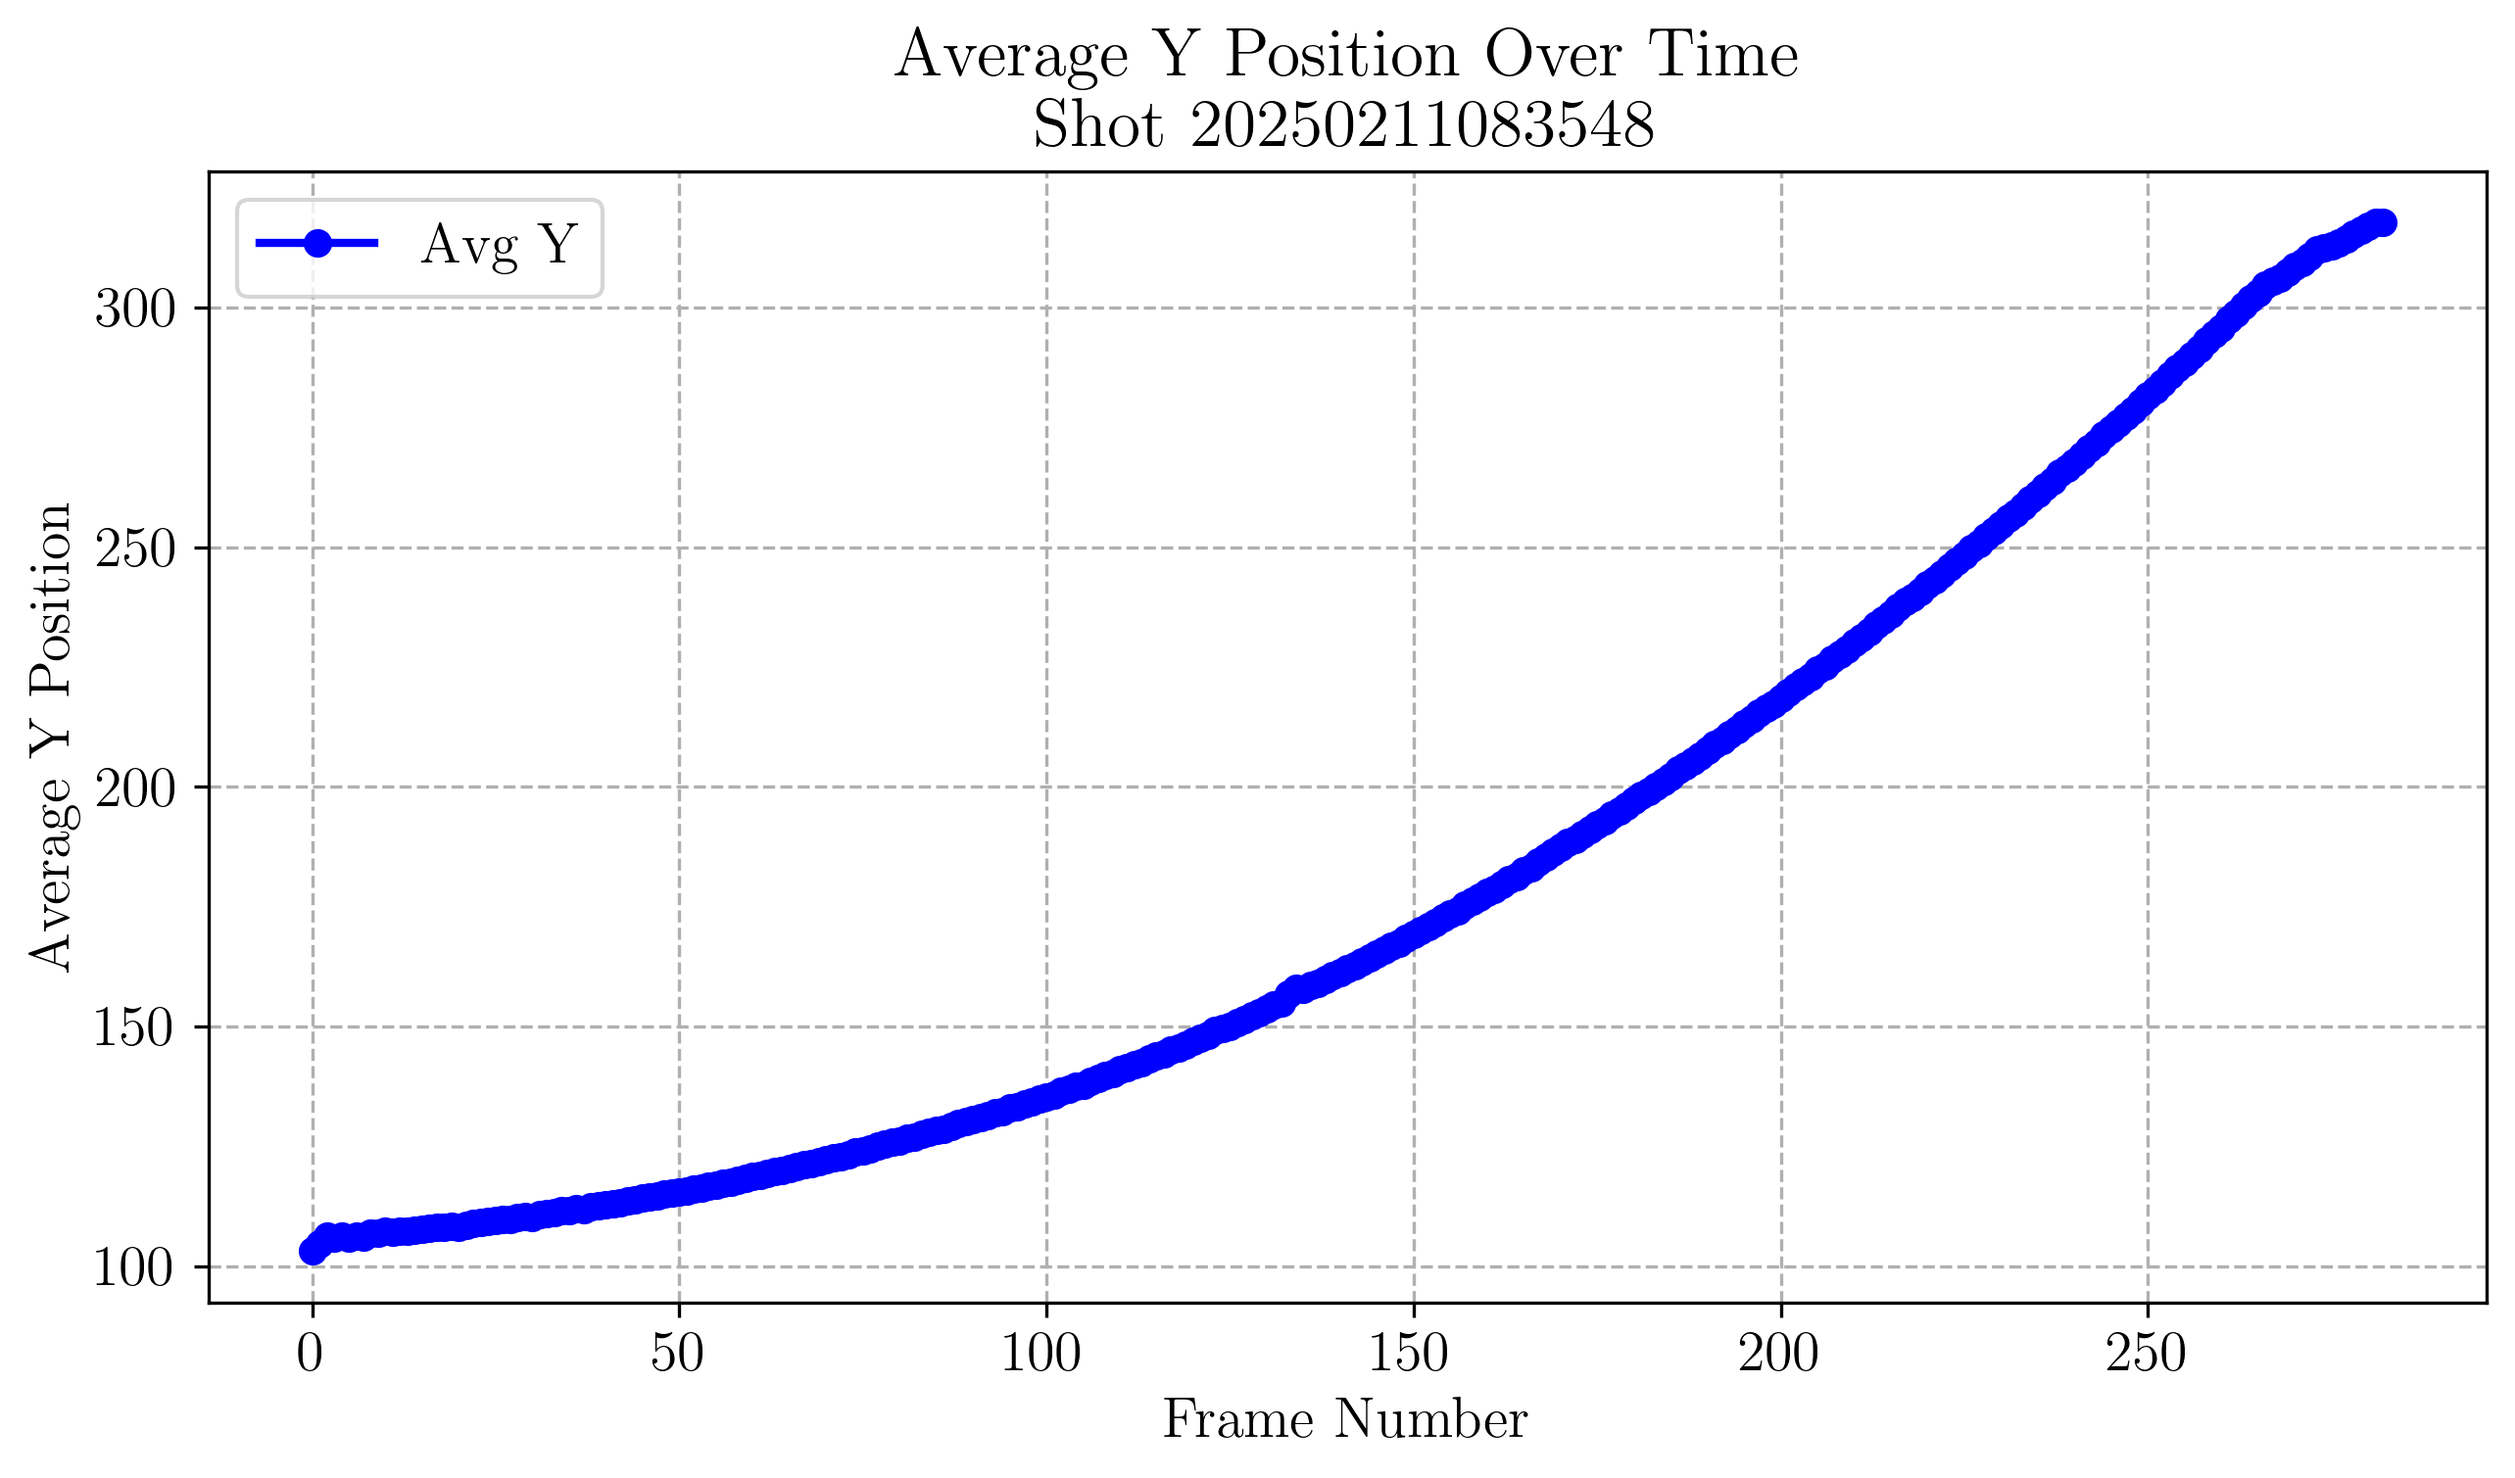
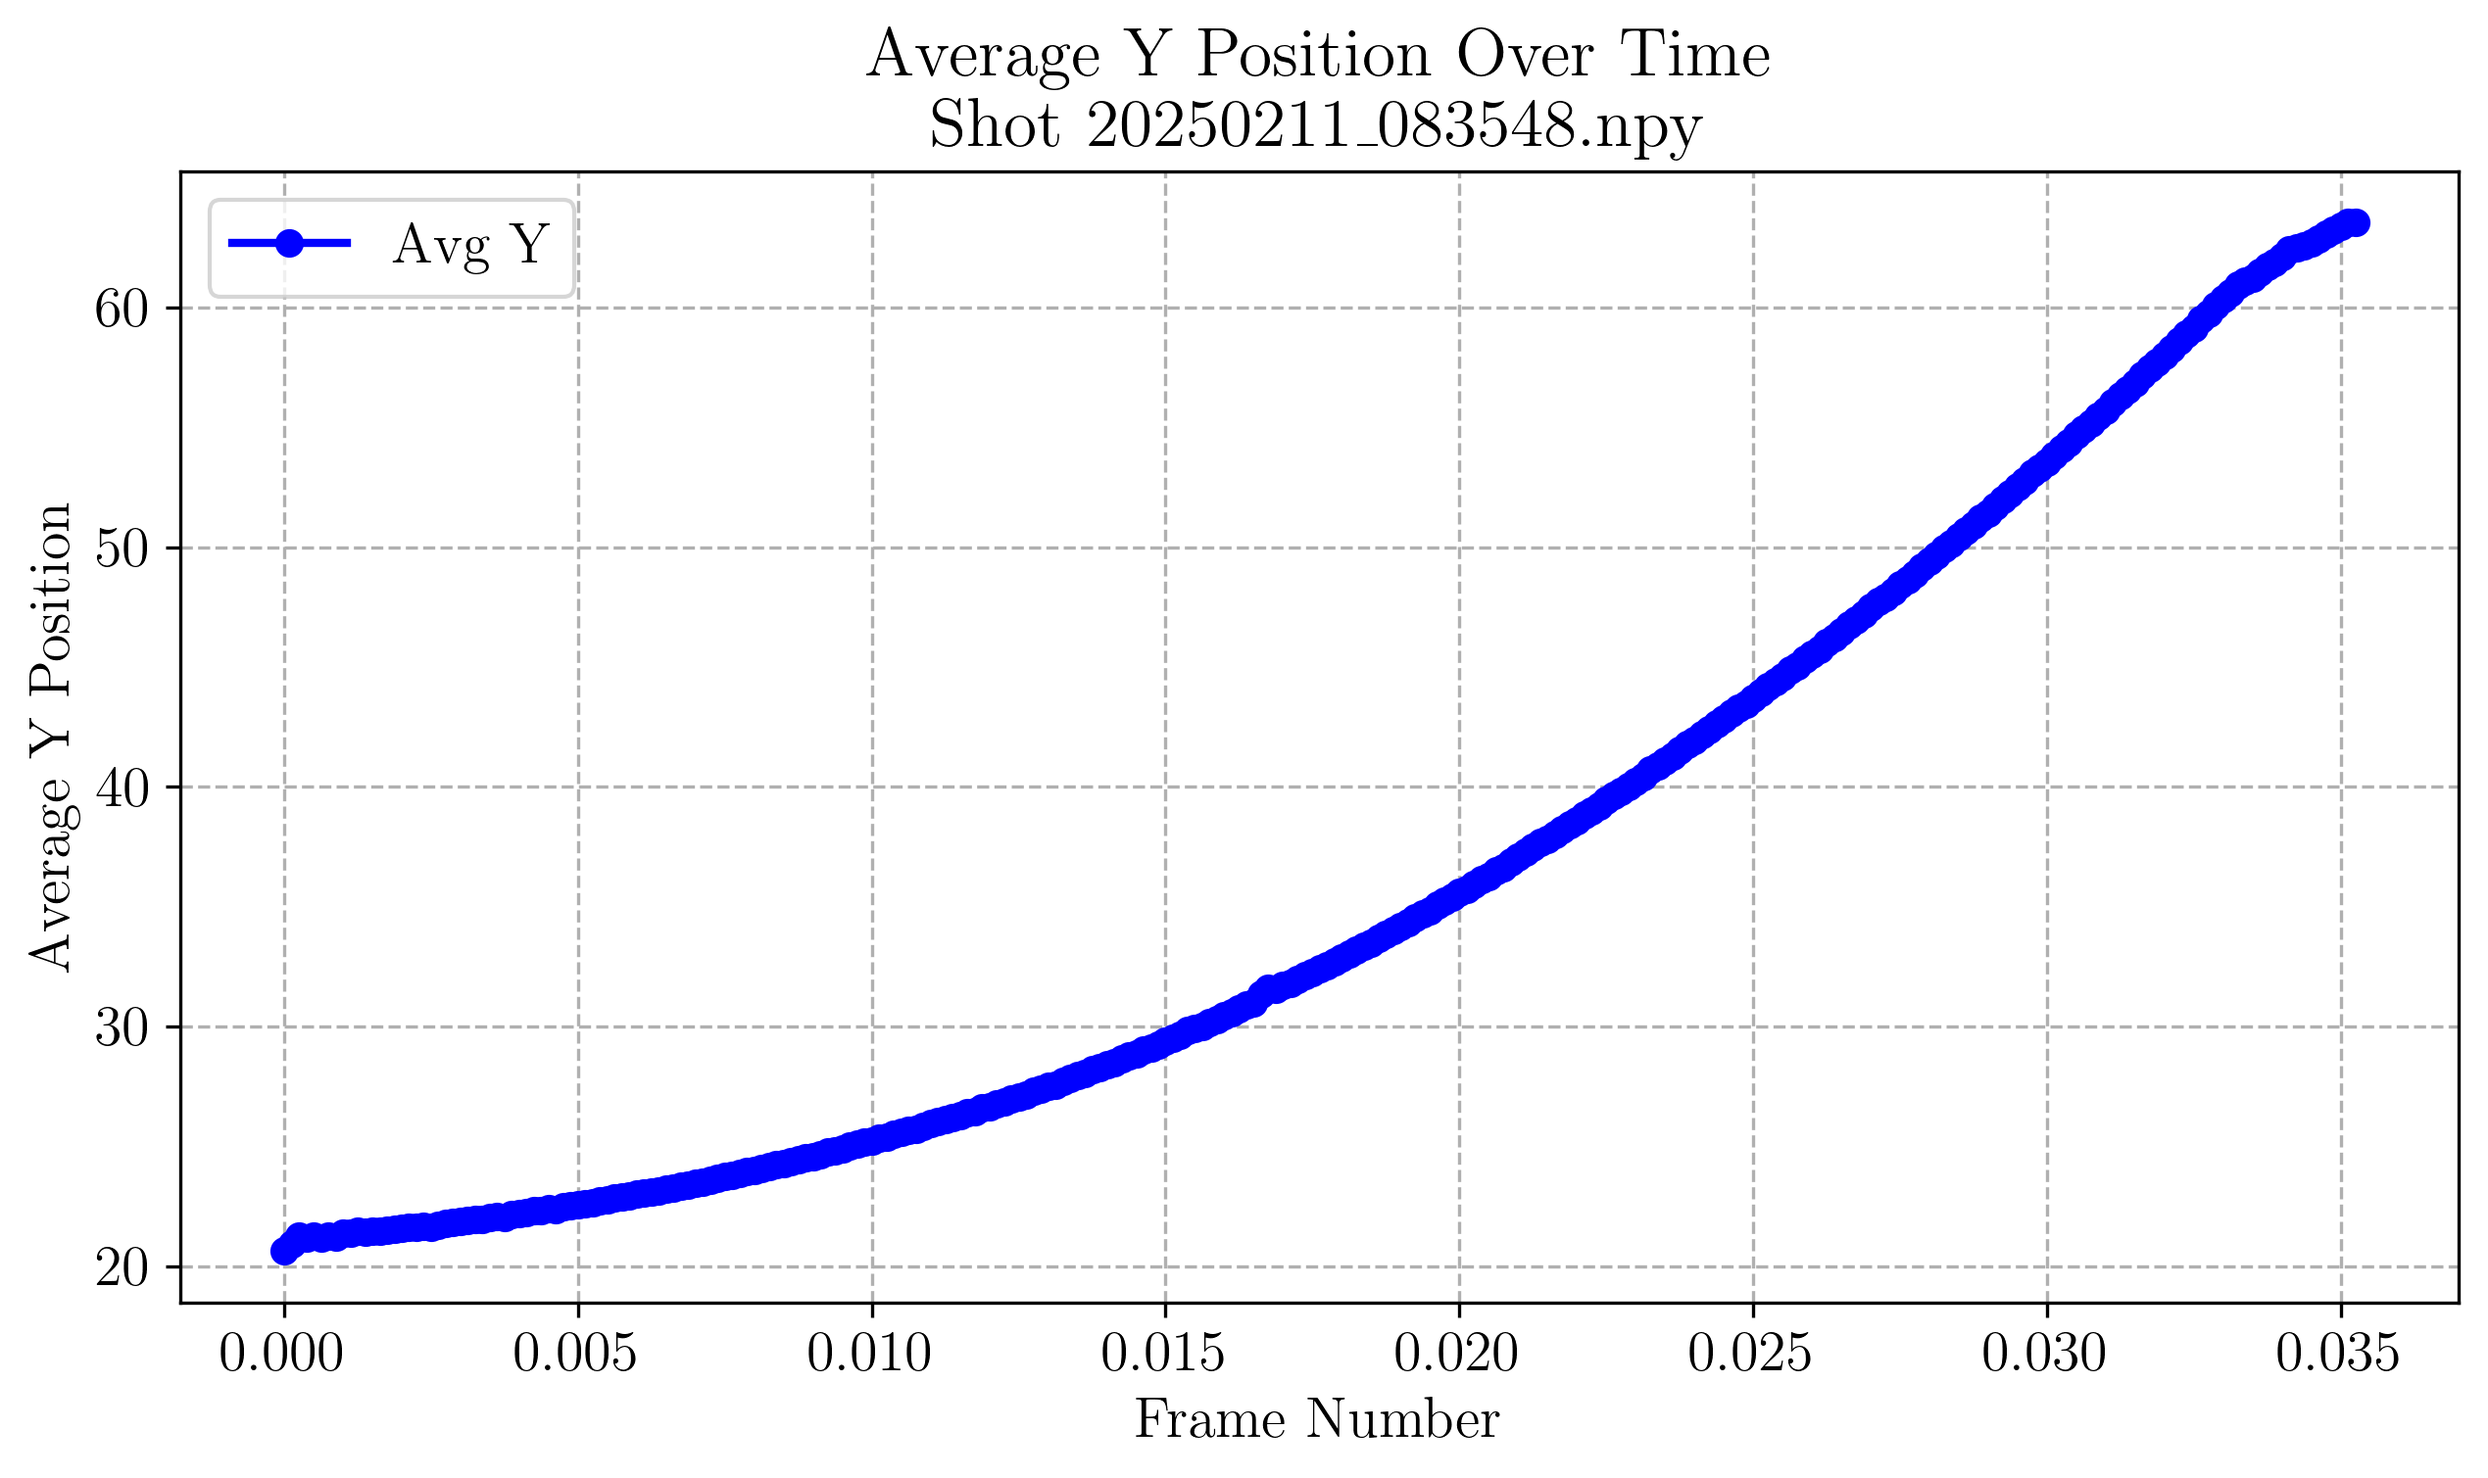
Incorporating obstacle and surface tracking analysis

diff --git a/tracking_surface.py b/tracking_surface.py
@@ -1,50 +1,70 @@
 import os
-
-# import cv2
-# import matplotlib.pyplot as plt
 import numpy as np
-
 from edge_detection import detect_edges
 
-frame_folder = r"C:\Users\niloy\Desktop\Shots 02112025\20250211_083548"
 
-GAUSSIAN_BLUR_KERNEL = (5, 5)  # Kernel size for Gaussian blur
-CANNY_THRESHOLD1 = 10  # Lower threshold for Canny edge detection
-CANNY_THRESHOLD2 = 150  # Upper threshold for Canny edge detection
-GAMMA = 0.1  # Gamma correction factor (1.0 = no change)
-SPLINE_SMOOTHING = 1500  # Spline smoothing factor (higher = smoother, fewer details)
-INTERP_RESOLUTION = 200  # Number of interpolation points for spline
-LEVELS_ALPHA = 10  # Contrast scaling factor
-LEVELS_BETA = 2  # Brightness adjustment
+def process_frames(
+    frame_folder,
+    gaussian_blur_kernel=(5, 5),
+    canny_threshold1=10,
+    canny_threshold2=150,
+    gamma=0.1,
+    spline_smoothing=1500,
+    interp_resolution=200,
+    levels_alpha=10,
+    levels_beta=2,
+    save_edges=False,
+    save_path="edges.npy",
+):
+    """
+    Processes a sequence of frames for edge detection.
 
+    Parameters:
+        frame_folder (str): Path to the folder containing BMP frames.
+        gaussian_blur_kernel (tuple): Kernel size for Gaussian blur.
+        canny_threshold1 (int): Lower threshold for Canny edge detection.
+        canny_threshold2 (int): Upper threshold for Canny edge detection.
+        gamma (float): Gamma correction factor.
+        spline_smoothing (int): Spline smoothing factor.
+        interp_resolution (int): Number of interpolation points for spline.
+        levels_alpha (int): Contrast scaling factor.
+        levels_beta (int): Brightness adjustment.
+        save_edges (bool): Whether to save the edges array as a .npy file.
+        save_path (str): Path to save the .npy file if save_edges is True.
 
-# Get list of all .bmp files in the folder
-frames = [f for f in os.listdir(frame_folder) if f.lower().endswith(".bmp")]
+    Returns:
+        np.ndarray: The computed edges array.
+    """
+    frames = [f for f in os.listdir(frame_folder) if f.lower().endswith(".bmp")]
+    frames.sort()  # Ensure frames are processed in order
 
+    n = len(frames)
+    if n < 2:
+        raise ValueError("At least two frames are required for edge detection.")
 
-# Pre-allocate array for edge vs frames for speed
-n = len(frames)
-edges = np.full((2, INTERP_RESOLUTION, n - 1), np.nan)
+    edges = np.full((2, interp_resolution, n - 1), np.nan)
 
-# Print the list of .bmp files
-for i in range(n - 1):
-    FRAME1_PATH = os.path.join(frame_folder, frames[i])
-    FRAME2_PATH = os.path.join(frame_folder, frames[i + 1])
-    try:
-        edge = detect_edges(
-            FRAME1_PATH,
-            FRAME2_PATH,
-            GAMMA,
-            GAUSSIAN_BLUR_KERNEL,
-            LEVELS_ALPHA,
-            LEVELS_BETA,
-            CANNY_THRESHOLD1,
-            CANNY_THRESHOLD2,
-            SPLINE_SMOOTHING,
-            INTERP_RESOLUTION,
-        )
-        edges[:, :, i] = edge
-    except:
-        print(f"Frame {i} Didn't work")
+    for i in range(n - 1):
+        frame1_path = os.path.join(frame_folder, frames[i])
+        frame2_path = os.path.join(frame_folder, frames[i + 1])
+        try:
+            edge = detect_edges(
+                frame1_path,
+                frame2_path,
+                gamma,
+                gaussian_blur_kernel,
+                levels_alpha,
+                levels_beta,
+                canny_threshold1,
+                canny_threshold2,
+                spline_smoothing,
+                interp_resolution,
+            )
+            edges[:, :, i] = edge
+        except Exception as e:
+            print(f"Frame {i} processing failed: {e}")
 
-np.save("20250211_083548.npy", edges)
+    if save_edges:
+        np.save(save_path, edges)
+
+    return edges

diff --git a/surface_dynamics.py b/surface_dynamics.py
@@ -1,31 +1,39 @@
 import matplotlib.pyplot as plt
 import numpy as np
 
-# Load the saved array
-edges = np.load("20250211_083548.npy")  # Ensure the file is in the same directory
 
-# Extract y-values (edges[1] contains y-values)
-y_values = edges[1, :, :]  # Shape: (200, time_frames)
+def plot_surface_dynamics(
+    npy_file, save_plot=True, plot_filename="surface_dynamics.png", scaling=1, FPS=1
+):
+    """
+    Plots the surface dynamics from a saved numpy array.
 
-# Compute the average y-value at each time frame
-avg_y = np.mean(y_values, axis=0)  # Shape: (time_frames,)
+    Parameters:
+        npy_file (str): Path to the saved numpy file containing edge data.
+        save_plot (bool): Whether to save the plot as an image file.
+        plot_filename (str): Name of the file to save the plot.
+    """
+    edges = np.load(npy_file)  # Load the saved array
+    y_values = edges[1, :, :] * scaling  # Extract y-values
+    avg_y = np.mean(y_values, axis=0)  # Compute average y-value per frame
+    time = np.arange(avg_y.shape[0]) / FPS  # Generate frame numbers
 
-# Generate frame numbers as x-axis
-frame_numbers = np.arange(avg_y.shape[0])
+    # Plotting parameters
+    plt.rc("text", usetex=True)
+    plt.rc("font", family="serif", size=14)
+    plt.rc("lines", linewidth=2)
+    plt.rc("axes", grid=True)
+    plt.rc("grid", linestyle="--")
 
-# Plot the results
-# Plotting parameters
-plt.rc("text", usetex=True)
-plt.rc("font", family="serif", size=14)
-plt.rc("lines", linewidth=2)
-plt.rc("axes", grid=True)
-plt.rc("grid", linestyle="--")
+    plt.figure(figsize=(10, 5))
+    plt.plot(time, avg_y, marker="o", linestyle="-", color="b", label="Avg Y")
+    plt.xlabel("Time")
+    plt.ylabel("Average Y Position")
+    plt.title(f"Average Y Position Over Time \n Shot {npy_file}")
+    plt.legend()
+    plt.grid(True)
 
-plt.figure(figsize=(10, 5))
-plt.plot(frame_numbers, avg_y, marker="o", linestyle="-", color="b", label="Avg Y")
-plt.xlabel("Frame Number")
-plt.ylabel("Average Y Position")
-plt.title(f"Average Y Position Over Time \n Shot {20250211_083548}")
-plt.legend()
-plt.grid(True)
-plt.savefig("20250211_083548.png", dpi=300, bbox_inches="tight")
+    if save_plot:
+        plt.savefig(plot_filename, dpi=300, bbox_inches="tight")
+    else:
+        plt.show()

diff --git a/obstacle_detection.py b/obstacle_detection.py
@@ -1,0 +1,54 @@
+import cv2
+import numpy as np
+
+# Load the image
+# path = r"./Sample Frames/test_multiple_obstacles.png"
+path = r"./Sample Frames/20250211_082312000001.bmp"
+image = cv2.imread(path)
+
+# Check if the image is loaded properly
+if image is None:
+    raise FileNotFoundError(f"Could not load image at path: {path}")
+
+# Convert the image to grayscale (HoughCircles requires a single-channel image)
+gray = cv2.cvtColor(image, cv2.COLOR_BGR2GRAY)
+
+# Apply Gaussian blur to reduce noise and smooth the image
+blurred = cv2.GaussianBlur(gray, (9, 9), 2)  # Kernel size (9,9), sigma = 2
+
+# Apply Canny edge detection to highlight edges in the image
+edges = cv2.Canny(blurred, 50, 150)  # Thresholds set to detect strong and weak edges
+
+# Use Hough Circle Transform to detect circles in the blurred image
+# cv2.HoughCircles(...) returns circles defined by (x,y,r)
+circles = cv2.HoughCircles(
+    blurred,  # Input image (must be grayscale)
+    cv2.HOUGH_GRADIENT,  # Detection method (Hough Gradient)
+    dp=1.2,  # Inverse ratio of resolution (higher means less accuracy)
+    minDist=50,  # Minimum distance between detected circles
+    param1=50,  # Upper threshold for internal Canny edge detection
+    param2=30,  # Threshold for center detection (lower means more circles)
+    minRadius=20,  # Minimum circle radius
+    maxRadius=100,  # Maximum circle radius
+)
+
+
+# If circles are detected, process and draw them
+if circles is not None:
+    circles = np.uint16(
+        np.around(circles)
+    )  # Convert detected circles to integer values
+    for circle in circles[0, :]:  # Loop through all detected circles
+        # Draw the outer circle (green)
+        cv2.circle(image, (circle[0], circle[1]), circle[2], (255, 0, 0), 2)
+        # Draw the center of the circle (red)
+        cv2.circle(image, (circle[0], circle[1]), 2, (0, 0, 255), 3)
+
+# # Display the image with detected circles
+# cv2.imshow("Detected Circles", image)
+
+# # Wait for a key press before closing the window
+# cv2.waitKey(0)
+# cv2.destroyAllWindows()
+
+print(circles[0])

diff --git a/analysis.py b/analysis.py
@@ -1,0 +1,31 @@
+import matplotlib.pyplot as plt
+import numpy as np
+from matplotlib.patches import Circle
+
+experiment = "20250211_082312"
+obstacle_path = rf"./obstacle_data/{experiment}000001_obstacle.npy"
+free_surface_data = rf"./free_surface_data/{experiment}_free_surface.npy"
+
+obstacle = np.load(obstacle_path)  # Load the saved array
+free_surface_all = np.load(free_surface_data)
+
+frame_number = 200
+free_surface = free_surface_all[:, :, frame_number]
+
+fig, ax = plt.subplots()
+ax.plot(free_surface[0], free_surface[1])
+
+# Ensure obstacle values are scalars
+x = obstacle[0][0][0]  # Convert to scalar
+y = 312 - obstacle[0][0][1]  # Convert to scalar
+r = obstacle[0][0][2]  # Convert to scalar
+
+# Create and add the circle patch
+circle = Circle((x, y), r, color="r", fill=False)
+ax.add_patch(circle)
+
+ax.set_ylim(0, 320)
+ax.set_xlim(0, 512)
+ax.set_aspect("equal")  # Ensure the circle isn't distorted
+
+plt.show()

diff --git a/main.py b/main.py
@@ -5,3 +5,20 @@ Date: 2025-02-17
 Version: 1.2
 Description: Surface tracking using frame differencing.
 """
+
+from surface_dynamics import plot_surface_dynamics
+from tracking_surface import process_frames
+
+edges = process_frames(
+    r"C:\Users\niloy\Desktop\Shots 02112025\20250211_083548",
+    save_edges=True,
+    save_path="20250211_083548.npy",
+)
+
+plot_surface_dynamics(
+    "20250211_083548.npy",
+    save_plot=True,
+    plot_filename="20250211_083548.png",
+    scaling=0.2,
+    FPS=8000,
+)

diff --git a/edge_detection.py b/edge_detection.py
@@ -3,7 +3,7 @@ import numpy as np
 from scipy.interpolate import splev, splprep
 
 
-def preprocess_frame(image, gamma, blur_kernel, alpha, beta):
+def preprocess_frame(image, gamma=1, blur_kernel=(1, 1), alpha=1, beta=1):
     """
     Apply gamma correction, Gaussian blur, and levels adjustment.
     """
